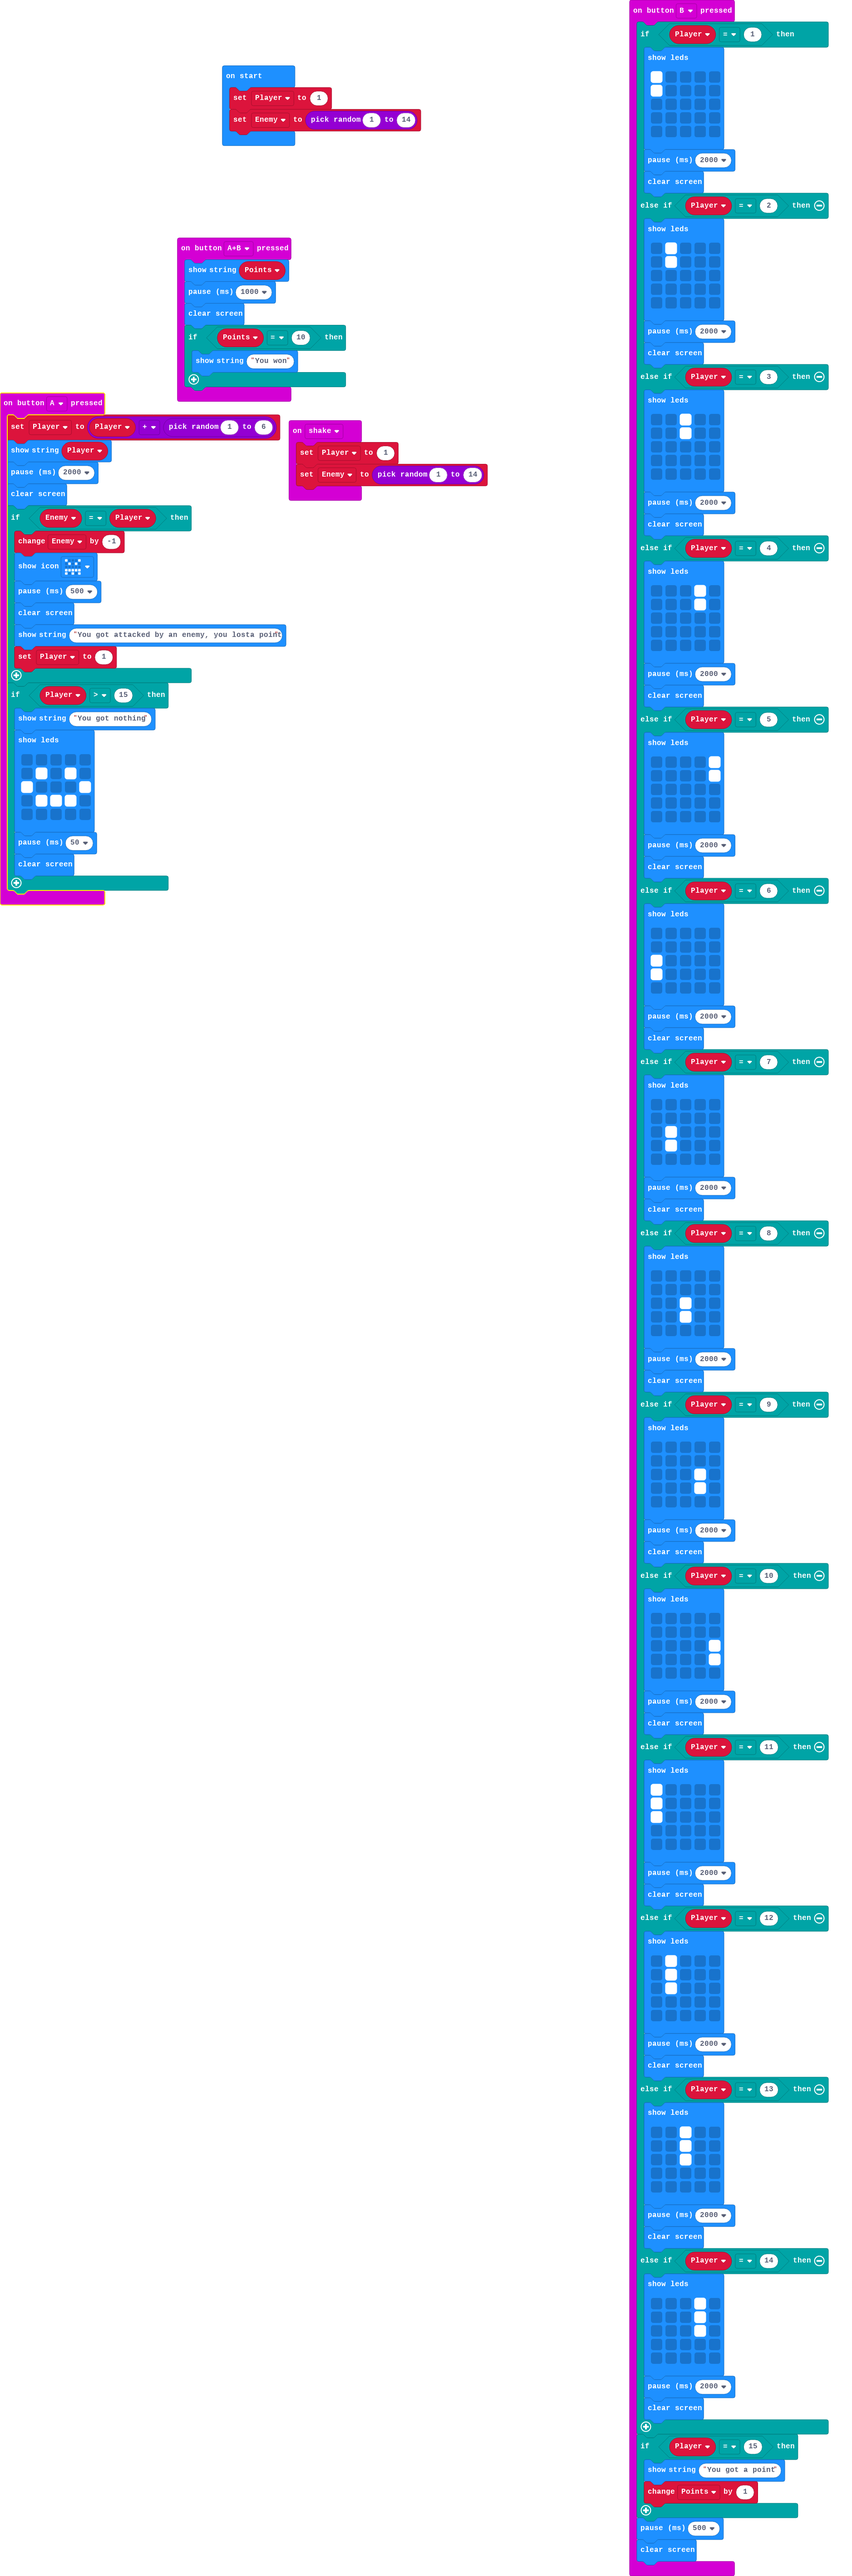
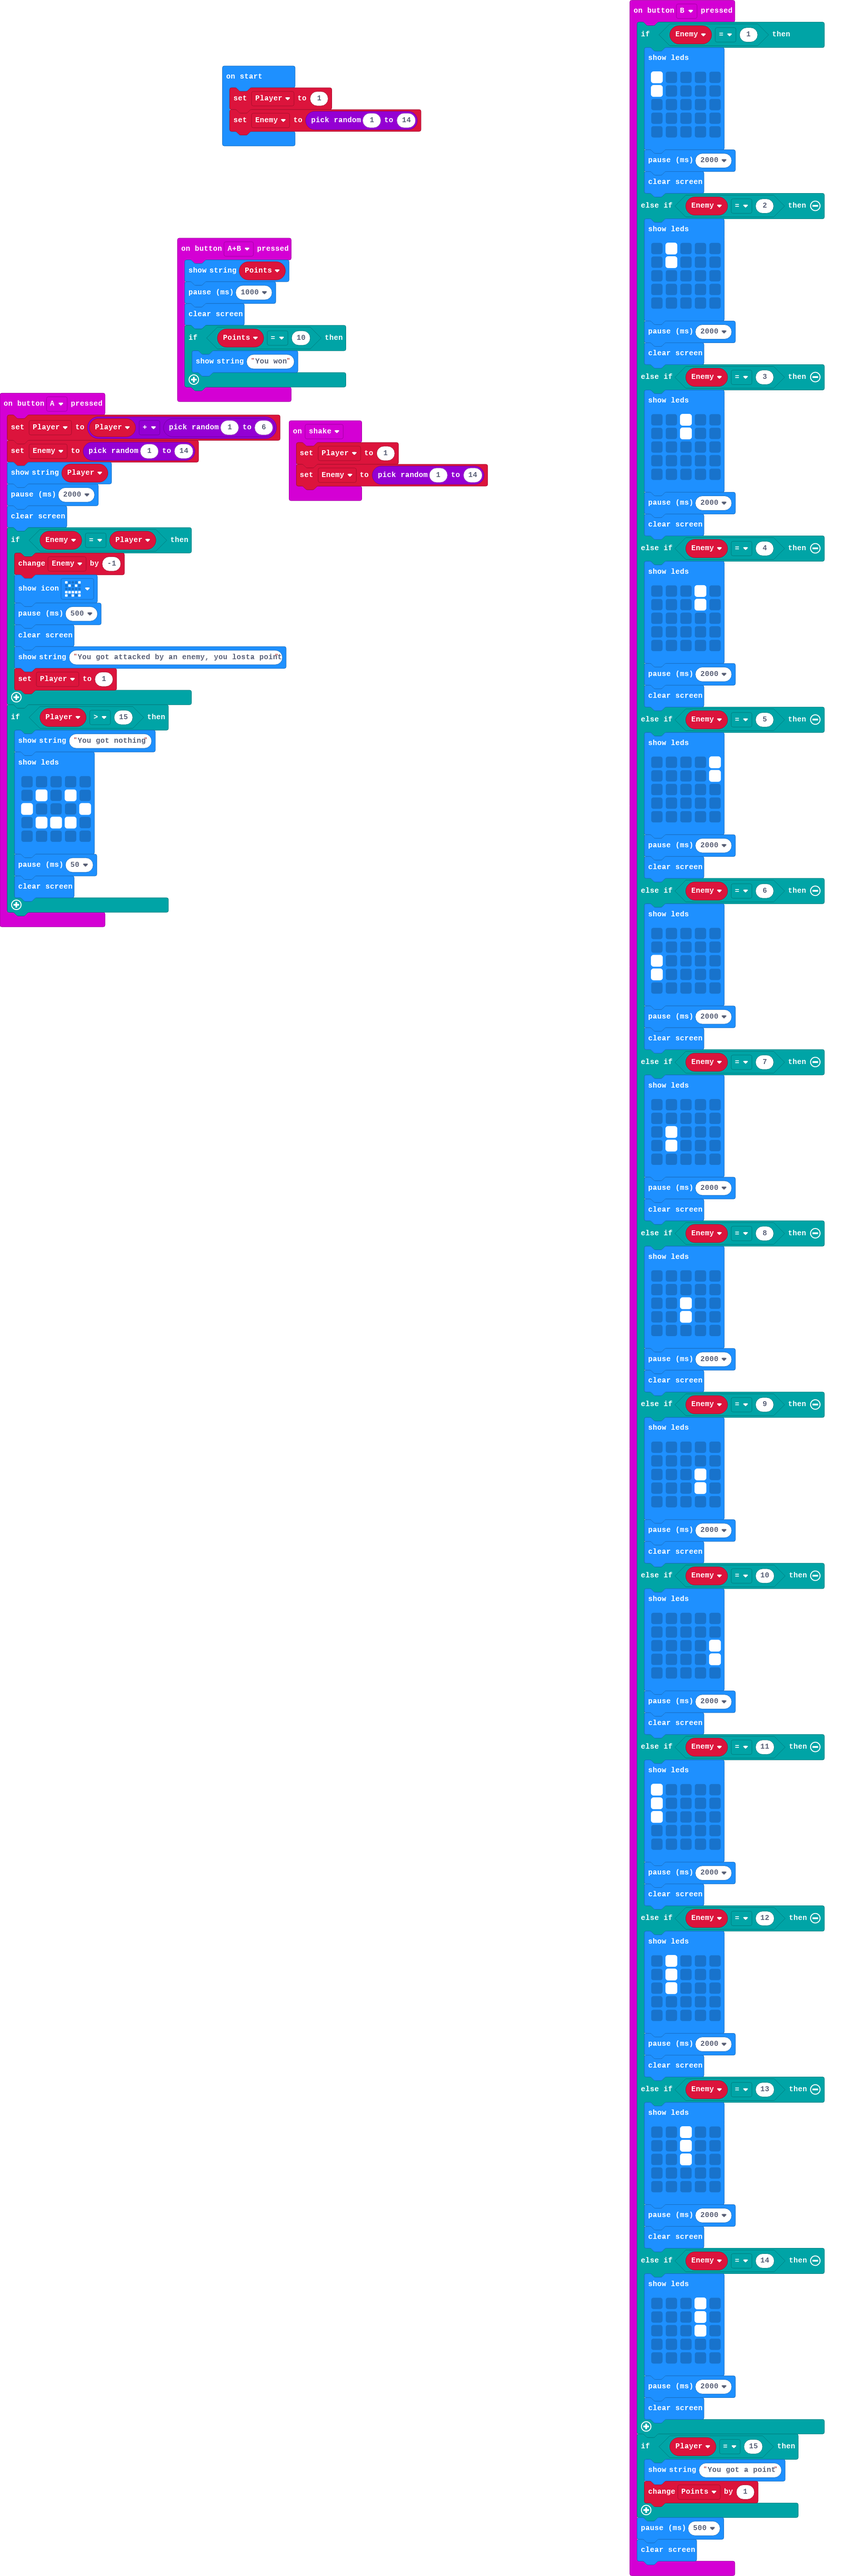
Update main.blocks, main.ts

diff --git a/main.ts b/main.ts
@@ -1,5 +1,6 @@
 input.onButtonPressed(Button.A, function () {
     Player = Player + randint(1, 6)
+    Enemy = randint(1, 14)
     basic.showString("" + (Player))
     basic.pause(2000)
     basic.clearScreen()
@@ -33,7 +34,7 @@ input.onButtonPressed(Button.AB, function () {
     }
 })
 input.onButtonPressed(Button.B, function () {
-    if (Player == 1) {
+    if (Enemy == 1) {
         basic.showLeds(`
             # . . . .
             # . . . .
@@ -43,7 +44,7 @@ input.onButtonPressed(Button.B, function () {
             `)
         basic.pause(2000)
         basic.clearScreen()
-    } else if (Player == 2) {
+    } else if (Enemy == 2) {
         basic.showLeds(`
             . # . . .
             . # . . .
@@ -53,7 +54,7 @@ input.onButtonPressed(Button.B, function () {
             `)
         basic.pause(2000)
         basic.clearScreen()
-    } else if (Player == 3) {
+    } else if (Enemy == 3) {
         basic.showLeds(`
             . . # . .
             . . # . .
@@ -63,7 +64,7 @@ input.onButtonPressed(Button.B, function () {
             `)
         basic.pause(2000)
         basic.clearScreen()
-    } else if (Player == 4) {
+    } else if (Enemy == 4) {
         basic.showLeds(`
             . . . # .
             . . . # .
@@ -73,7 +74,7 @@ input.onButtonPressed(Button.B, function () {
             `)
         basic.pause(2000)
         basic.clearScreen()
-    } else if (Player == 5) {
+    } else if (Enemy == 5) {
         basic.showLeds(`
             . . . . #
             . . . . #
@@ -83,7 +84,7 @@ input.onButtonPressed(Button.B, function () {
             `)
         basic.pause(2000)
         basic.clearScreen()
-    } else if (Player == 6) {
+    } else if (Enemy == 6) {
         basic.showLeds(`
             . . . . .
             . . . . .
@@ -93,7 +94,7 @@ input.onButtonPressed(Button.B, function () {
             `)
         basic.pause(2000)
         basic.clearScreen()
-    } else if (Player == 7) {
+    } else if (Enemy == 7) {
         basic.showLeds(`
             . . . . .
             . . . . .
@@ -103,7 +104,7 @@ input.onButtonPressed(Button.B, function () {
             `)
         basic.pause(2000)
         basic.clearScreen()
-    } else if (Player == 8) {
+    } else if (Enemy == 8) {
         basic.showLeds(`
             . . . . .
             . . . . .
@@ -113,7 +114,7 @@ input.onButtonPressed(Button.B, function () {
             `)
         basic.pause(2000)
         basic.clearScreen()
-    } else if (Player == 9) {
+    } else if (Enemy == 9) {
         basic.showLeds(`
             . . . . .
             . . . . .
@@ -123,7 +124,7 @@ input.onButtonPressed(Button.B, function () {
             `)
         basic.pause(2000)
         basic.clearScreen()
-    } else if (Player == 10) {
+    } else if (Enemy == 10) {
         basic.showLeds(`
             . . . . .
             . . . . .
@@ -133,7 +134,7 @@ input.onButtonPressed(Button.B, function () {
             `)
         basic.pause(2000)
         basic.clearScreen()
-    } else if (Player == 11) {
+    } else if (Enemy == 11) {
         basic.showLeds(`
             # . . . .
             # . . . .
@@ -143,7 +144,7 @@ input.onButtonPressed(Button.B, function () {
             `)
         basic.pause(2000)
         basic.clearScreen()
-    } else if (Player == 12) {
+    } else if (Enemy == 12) {
         basic.showLeds(`
             . # . . .
             . # . . .
@@ -153,7 +154,7 @@ input.onButtonPressed(Button.B, function () {
             `)
         basic.pause(2000)
         basic.clearScreen()
-    } else if (Player == 13) {
+    } else if (Enemy == 13) {
         basic.showLeds(`
             . . # . .
             . . # . .
@@ -163,7 +164,7 @@ input.onButtonPressed(Button.B, function () {
             `)
         basic.pause(2000)
         basic.clearScreen()
-    } else if (Player == 14) {
+    } else if (Enemy == 14) {
         basic.showLeds(`
             . . . # .
             . . . # .
